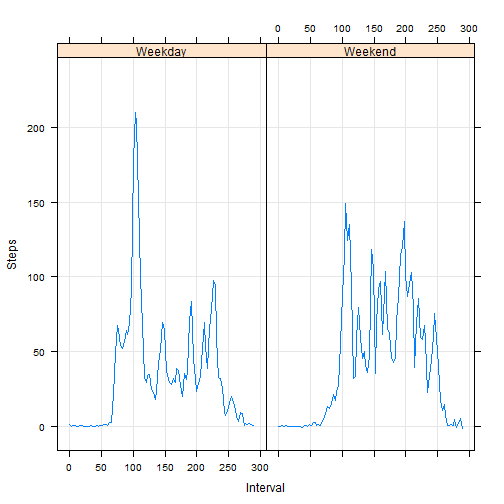
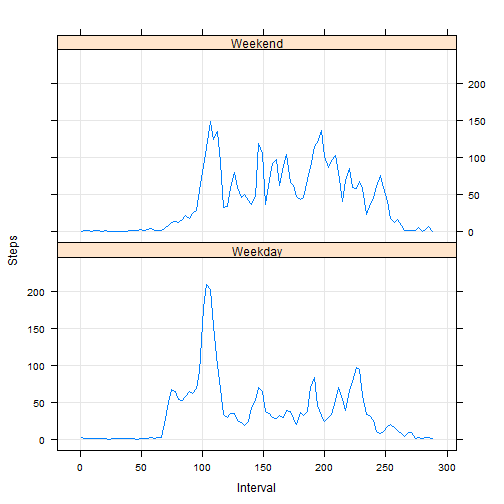
Final commit

diff --git a/PA1_template.html b/PA1_template.html
@@ -305,10 +305,10 @@ weekdaySteps &lt;- tapply(weekdayActivity$steps,weekdayActivity$interval,mean)
 stepData &lt;- data.frame(c(as.numeric(weekendSteps),as.numeric(weekdaySteps)),c(1:288,1:288),c(rep(&quot;Weekend&quot;,times=288),rep(&quot;Weekday&quot;,times=288))) # Create a data frame for plotting results
 names(stepData) &lt;- c(&quot;Steps&quot;,&quot;Interval&quot;,&quot;Days&quot;)                      
 library(&quot;lattice&quot;, lib.loc=&quot;D:/Programs/R/R-3.1.1/library&quot;)
-xyplot(Steps~Interval|Days,data=stepData,type=c(&quot;spline&quot;,&quot;g&quot;))
+xyplot(Steps~Interval|Days,data=stepData,type=c(&quot;spline&quot;,&quot;g&quot;),layout=c(1,2))
 </code></pre>
 
[2 lines of base64/hex data omitted]
 
 <p>The differences beetween weekday and weekend activity are clear from the plot. Weekend activity is more evenly spread over the day, with a lower morning peak.</p>
 

diff --git a/PA1_template.md b/PA1_template.md
@@ -125,7 +125,7 @@ weekdaySteps <- tapply(weekdayActivity$steps,weekdayActivity$interval,mean)
 stepData <- data.frame(c(as.numeric(weekendSteps),as.numeric(weekdaySteps)),c(1:288,1:288),c(rep("Weekend",times=288),rep("Weekday",times=288))) # Create a data frame for plotting results
 names(stepData) <- c("Steps","Interval","Days")                      
 library("lattice", lib.loc="D:/Programs/R/R-3.1.1/library")
-xyplot(Steps~Interval|Days,data=stepData,type=c("spline","g"))
+xyplot(Steps~Interval|Days,data=stepData,type=c("spline","g"),layout=c(1,2))
 ```
 
 ![plot of chunk Determine weekday and weekend means](figure/Determine weekday and weekend means-1.png) 
